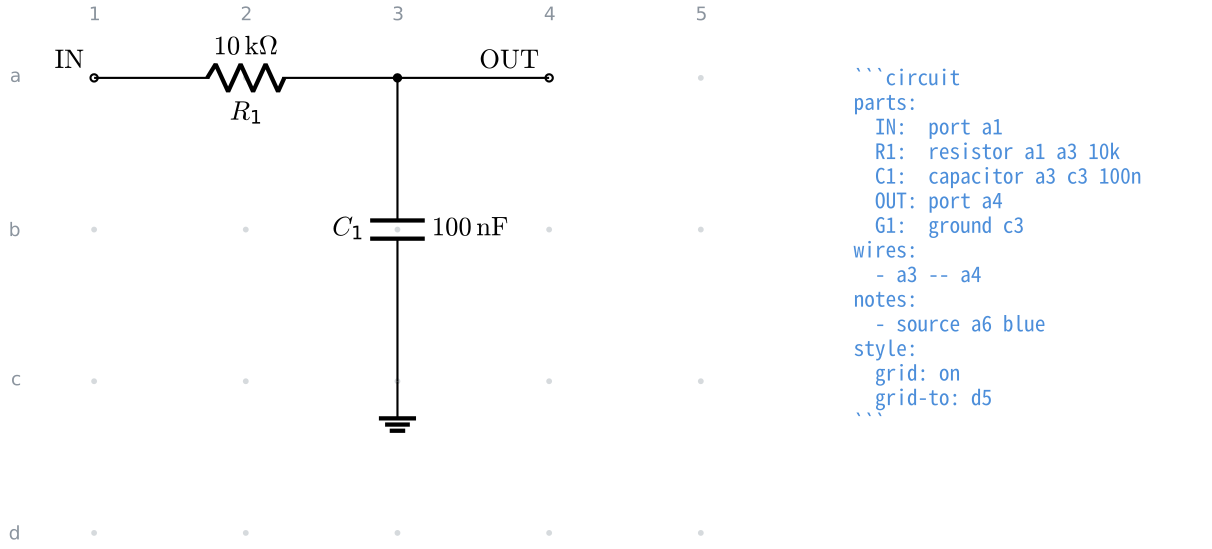
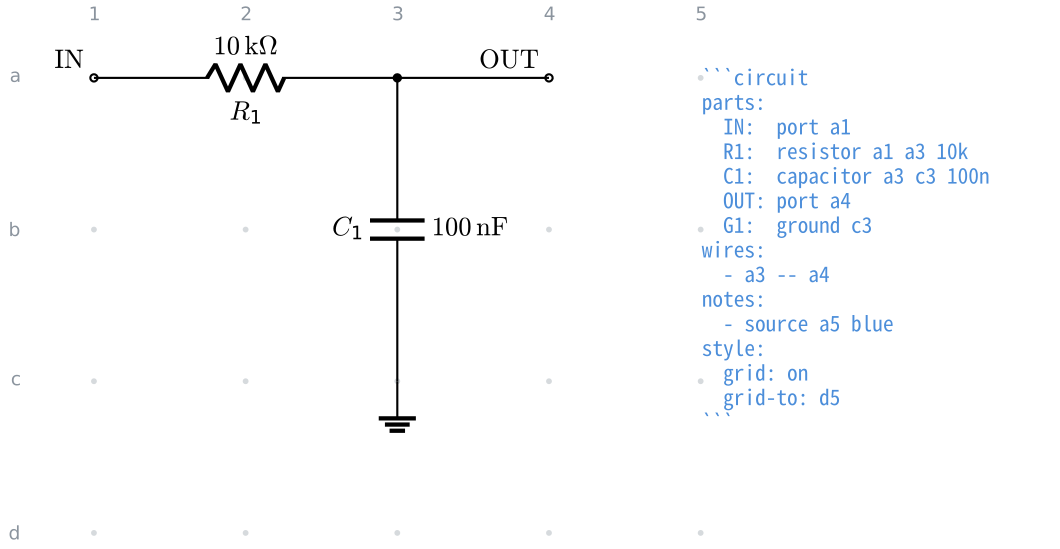
docs: 同じ図の二重表示をやめ、グリッドの図の書き出しを a5 に寄せる
syntax.md の注釈と刻印の節だけ、` ```circuit ` フェンスと examples の PNG で
**同じ図を 2 枚続けて出していた**。プレビューではフェンスが図に差し替わるので、
題を入れた後は「回路図13」「回路図20」が 1 ページに 2 回出る。
前のコミットは同じ図なら同じ番号を振ることで辻褄を合わせたが、
番号が揃っていても図が 2 枚出ること自体が読み手には冗長なので、PNG を落とす。

残すほうをフェンスにしたのは、syntax.md の自前の図 (回路図01 / 02 / 08 / 11 /
12 / 19) がどれもフェンスだけで PNG を貼っていないため。PNG を貼っている節
(部品一覧・FET・ロジックゲート) は逆にフェンスを置いていない。この 2 か所だけが
両方を持つ例外だった。12-notes-1.png は README がまだ貼っているので残る。

グリッドの図 (回路図19 と examples/10-grid.md。同じ図) の書き出しは a6 から
a5 へ。ほかの図はすべて a5 で、ここだけ 1 列外していた。`grid-to: d5` が引く
5 列目の点は字の左脇に落ちるので潰れない。図の幅は 1216 → 1060 px に縮む。
5 列目が見えにくくはなるが、列番号の 5 と最下段 d5 の点は書き出しの外に出るので、
グリッドが伸びていることは読み取れる。

examples/out/10-grid.* を作り直した。

🤖 Generated with [Claude Code](https://claude.com/claude-code)

diff --git a/packages/circuit-fence/examples/out/10-grid.tex b/packages/circuit-fence/examples/out/10-grid.tex
@@ -27,21 +27,21 @@
 \node[ground] at (c3) {}; % line 6
 \draw (a3) -- (a4); % line 8
 \node[circ] at (a3) {};
-\path (10,-4.939) rectangle (14.724,0.395); % line 10
-\node[anchor=west, inner sep=0, circuitnotemark, font=\footnotesize] at (10,0) {X}; % line 10
-\node[anchor=west, inner sep=0, circuitnotemark, font=\footnotesize] at (10,-0.325) {X}; % line 10
-\node[anchor=west, inner sep=0, circuitnotemark, font=\footnotesize] at (10,-0.649) {X}; % line 10
-\node[anchor=west, inner sep=0, circuitnotemark, font=\footnotesize] at (10,-0.974) {X}; % line 10
-\node[anchor=west, inner sep=0, circuitnotemark, font=\footnotesize] at (10,-1.298) {X}; % line 10
-\node[anchor=west, inner sep=0, circuitnotemark, font=\footnotesize] at (10,-1.623) {X}; % line 10
-\node[anchor=west, inner sep=0, circuitnotemark, font=\footnotesize] at (10,-1.947) {X}; % line 10
-\node[anchor=west, inner sep=0, circuitnotemark, font=\footnotesize] at (10,-2.272) {X}; % line 10
-\node[anchor=west, inner sep=0, circuitnotemark, font=\footnotesize] at (10,-2.596) {X}; % line 10
-\node[anchor=west, inner sep=0, circuitnotemark, font=\footnotesize] at (10,-2.921) {X}; % line 10
-\node[anchor=west, inner sep=0, circuitnotemark, font=\footnotesize] at (10,-3.246) {X}; % line 10
-\node[anchor=west, inner sep=0, circuitnotemark, font=\footnotesize] at (10,-3.57) {X}; % line 10
-\node[anchor=west, inner sep=0, circuitnotemark, font=\footnotesize] at (10,-3.895) {X}; % line 10
-\node[anchor=west, inner sep=0, circuitnotemark, font=\footnotesize] at (10,-4.219) {X}; % line 10
-\node[anchor=west, inner sep=0, circuitnotemark, font=\footnotesize] at (10,-4.544) {X}; % line 10
+\path (8,-4.939) rectangle (12.724,0.395); % line 10
+\node[anchor=west, inner sep=0, circuitnotemark, font=\footnotesize] at (8,0) {X}; % line 10
+\node[anchor=west, inner sep=0, circuitnotemark, font=\footnotesize] at (8,-0.325) {X}; % line 10
+\node[anchor=west, inner sep=0, circuitnotemark, font=\footnotesize] at (8,-0.649) {X}; % line 10
+\node[anchor=west, inner sep=0, circuitnotemark, font=\footnotesize] at (8,-0.974) {X}; % line 10
+\node[anchor=west, inner sep=0, circuitnotemark, font=\footnotesize] at (8,-1.298) {X}; % line 10
+\node[anchor=west, inner sep=0, circuitnotemark, font=\footnotesize] at (8,-1.623) {X}; % line 10
+\node[anchor=west, inner sep=0, circuitnotemark, font=\footnotesize] at (8,-1.947) {X}; % line 10
+\node[anchor=west, inner sep=0, circuitnotemark, font=\footnotesize] at (8,-2.272) {X}; % line 10
+\node[anchor=west, inner sep=0, circuitnotemark, font=\footnotesize] at (8,-2.596) {X}; % line 10
+\node[anchor=west, inner sep=0, circuitnotemark, font=\footnotesize] at (8,-2.921) {X}; % line 10
+\node[anchor=west, inner sep=0, circuitnotemark, font=\footnotesize] at (8,-3.246) {X}; % line 10
+\node[anchor=west, inner sep=0, circuitnotemark, font=\footnotesize] at (8,-3.57) {X}; % line 10
+\node[anchor=west, inner sep=0, circuitnotemark, font=\footnotesize] at (8,-3.895) {X}; % line 10
+\node[anchor=west, inner sep=0, circuitnotemark, font=\footnotesize] at (8,-4.219) {X}; % line 10
+\node[anchor=west, inner sep=0, circuitnotemark, font=\footnotesize] at (8,-4.544) {X}; % line 10
 \end{circuitikz}
 \end{document}

diff --git a/packages/circuit-fence/docs/syntax.md b/packages/circuit-fence/docs/syntax.md
@@ -422,8 +422,6 @@ style:
   grid: on
 ```
 
-![注釈](../examples/out/12-notes-1.png)
-
 ### 印 — `- circle 指し先 [色]`
 
 指し先は**部品 ID か番地**。部品を指すと記号の真ん中に、番地を指すと
@@ -705,7 +703,7 @@ parts:
 wires:
   - a3 -- a4
 notes:
-  - source a6 blue
+  - source a5 blue
 style:
   grid: on
   grid-to: d5
@@ -749,8 +747,6 @@ style:
   grid: on
   stamp: on
 ```
-
-![版の刻印](../examples/out/09-style-6.png)
 
 置き場所は番地からではなく、**図がどこまで広がったか**から決まる。
 上の図で刻印が書き出しの右下に付いているのは、書き出しがそこまで

diff --git a/packages/circuit-fence/examples/10-grid.md b/packages/circuit-fence/examples/10-grid.md
@@ -13,7 +13,7 @@ parts:
 wires:
   - a3 -- a4
 notes:
-  - source a6 blue
+  - source a5 blue
 style:
   grid: on
   grid-to: d5
